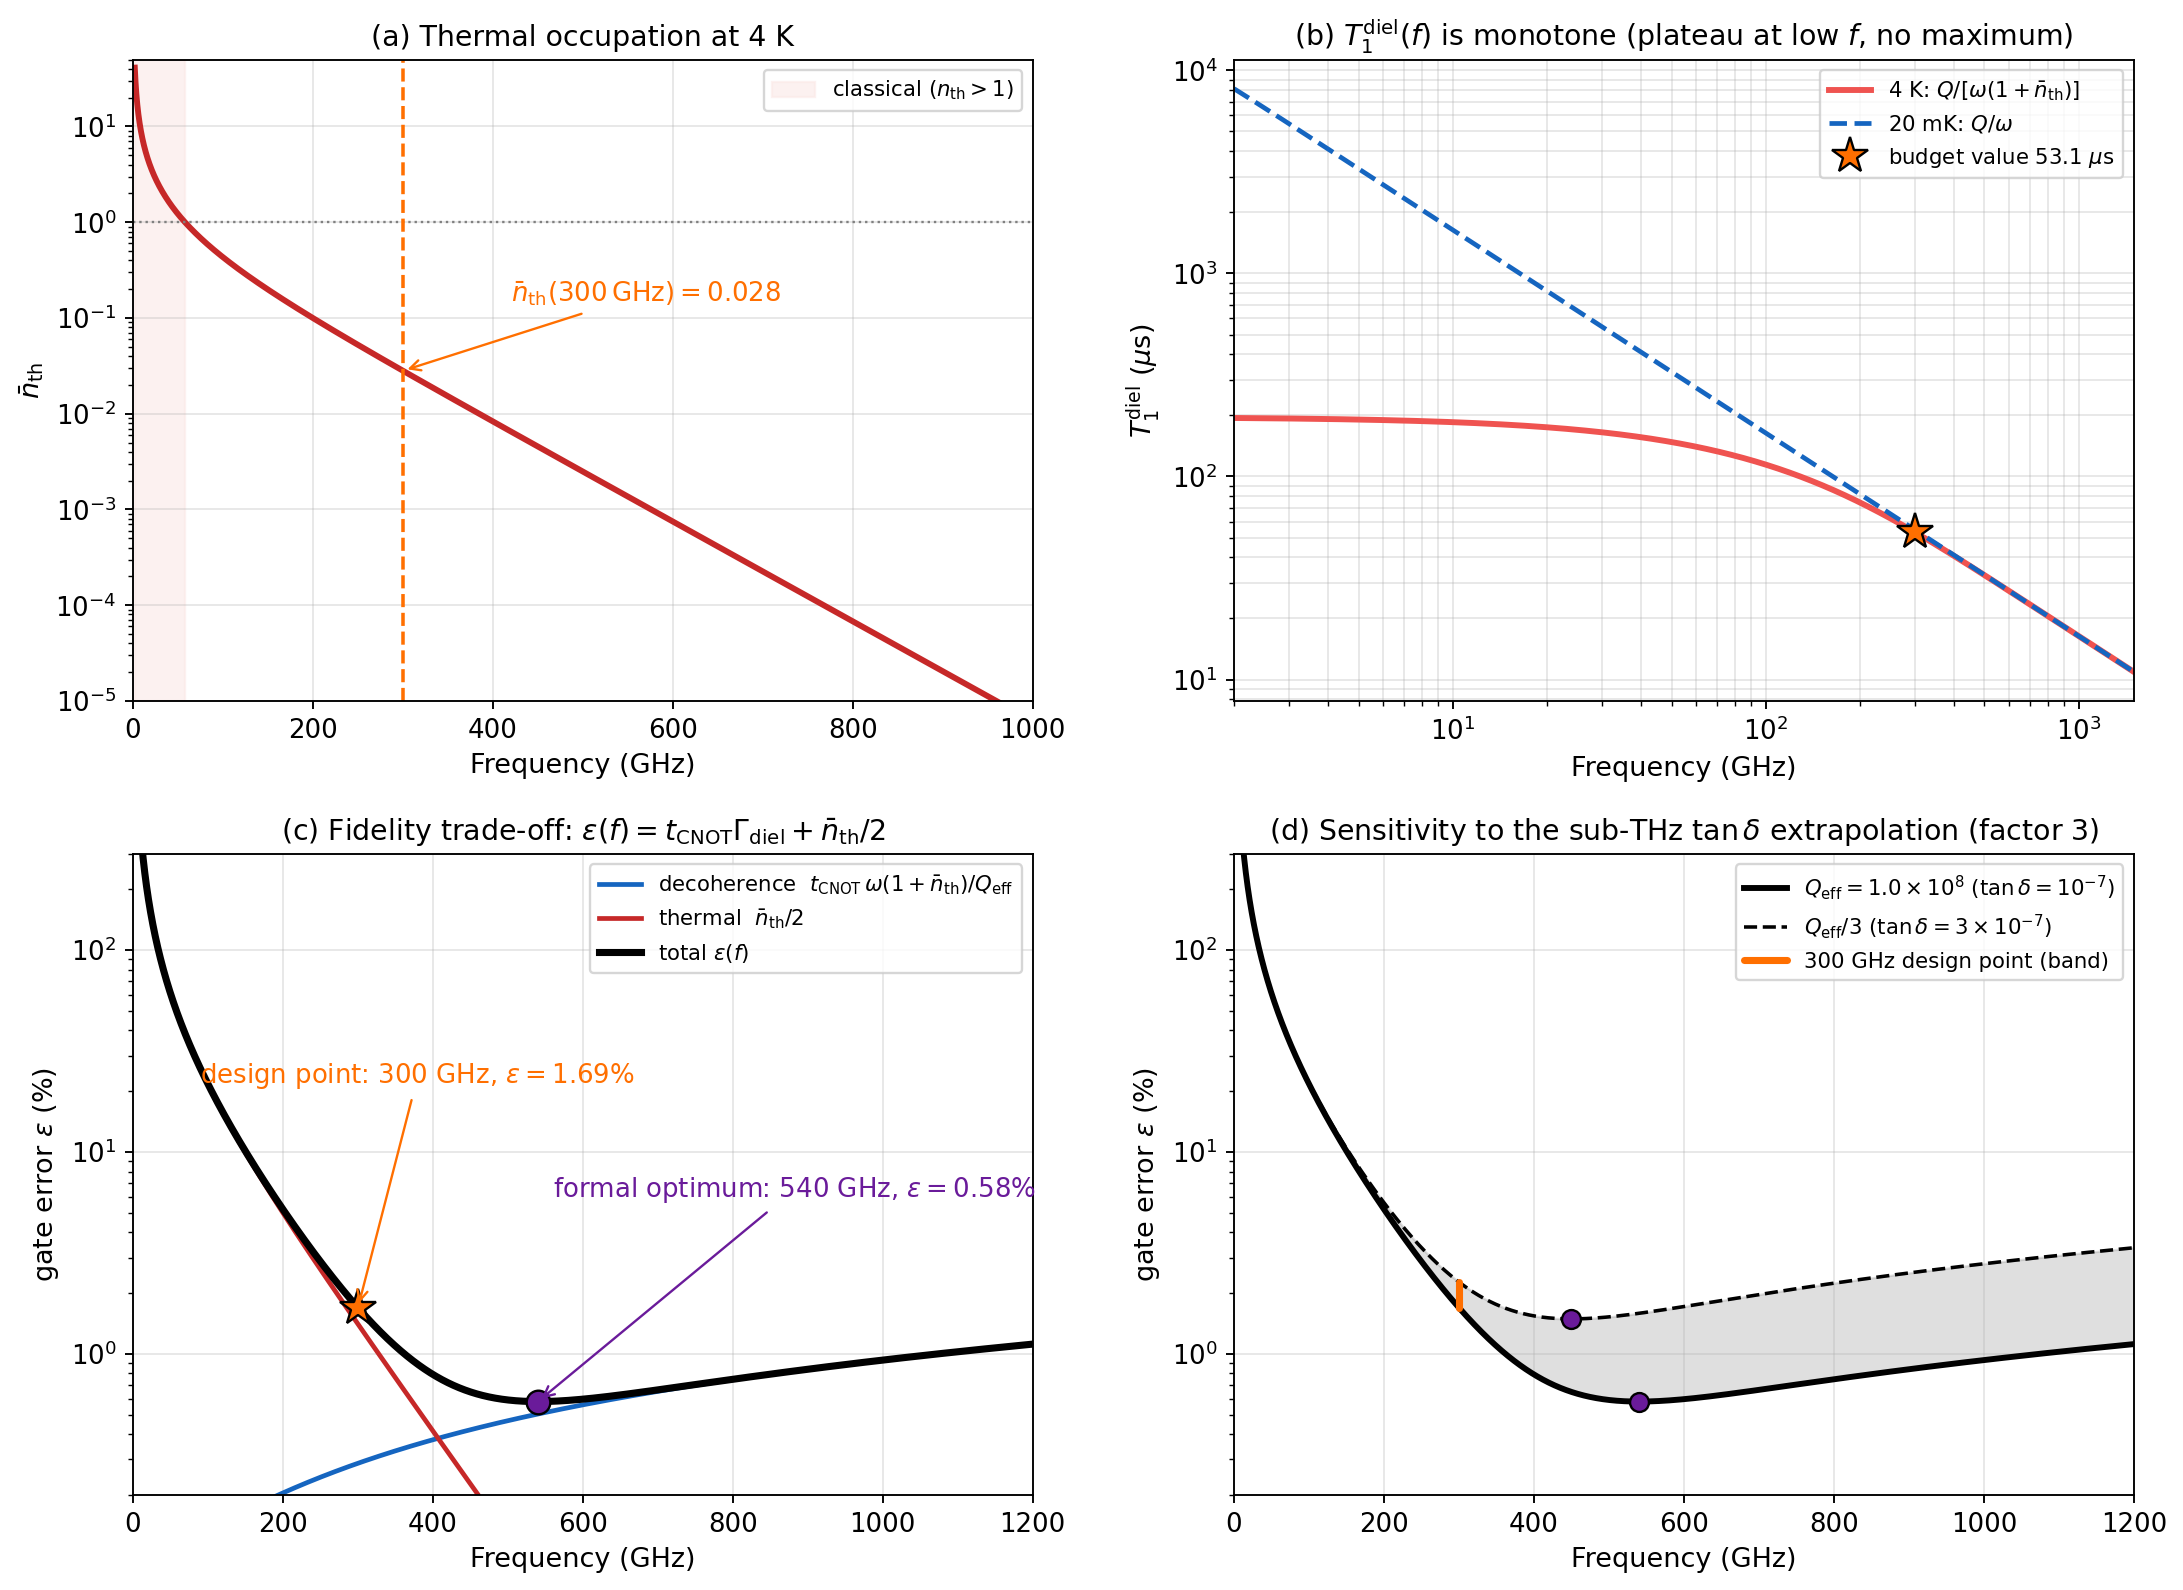
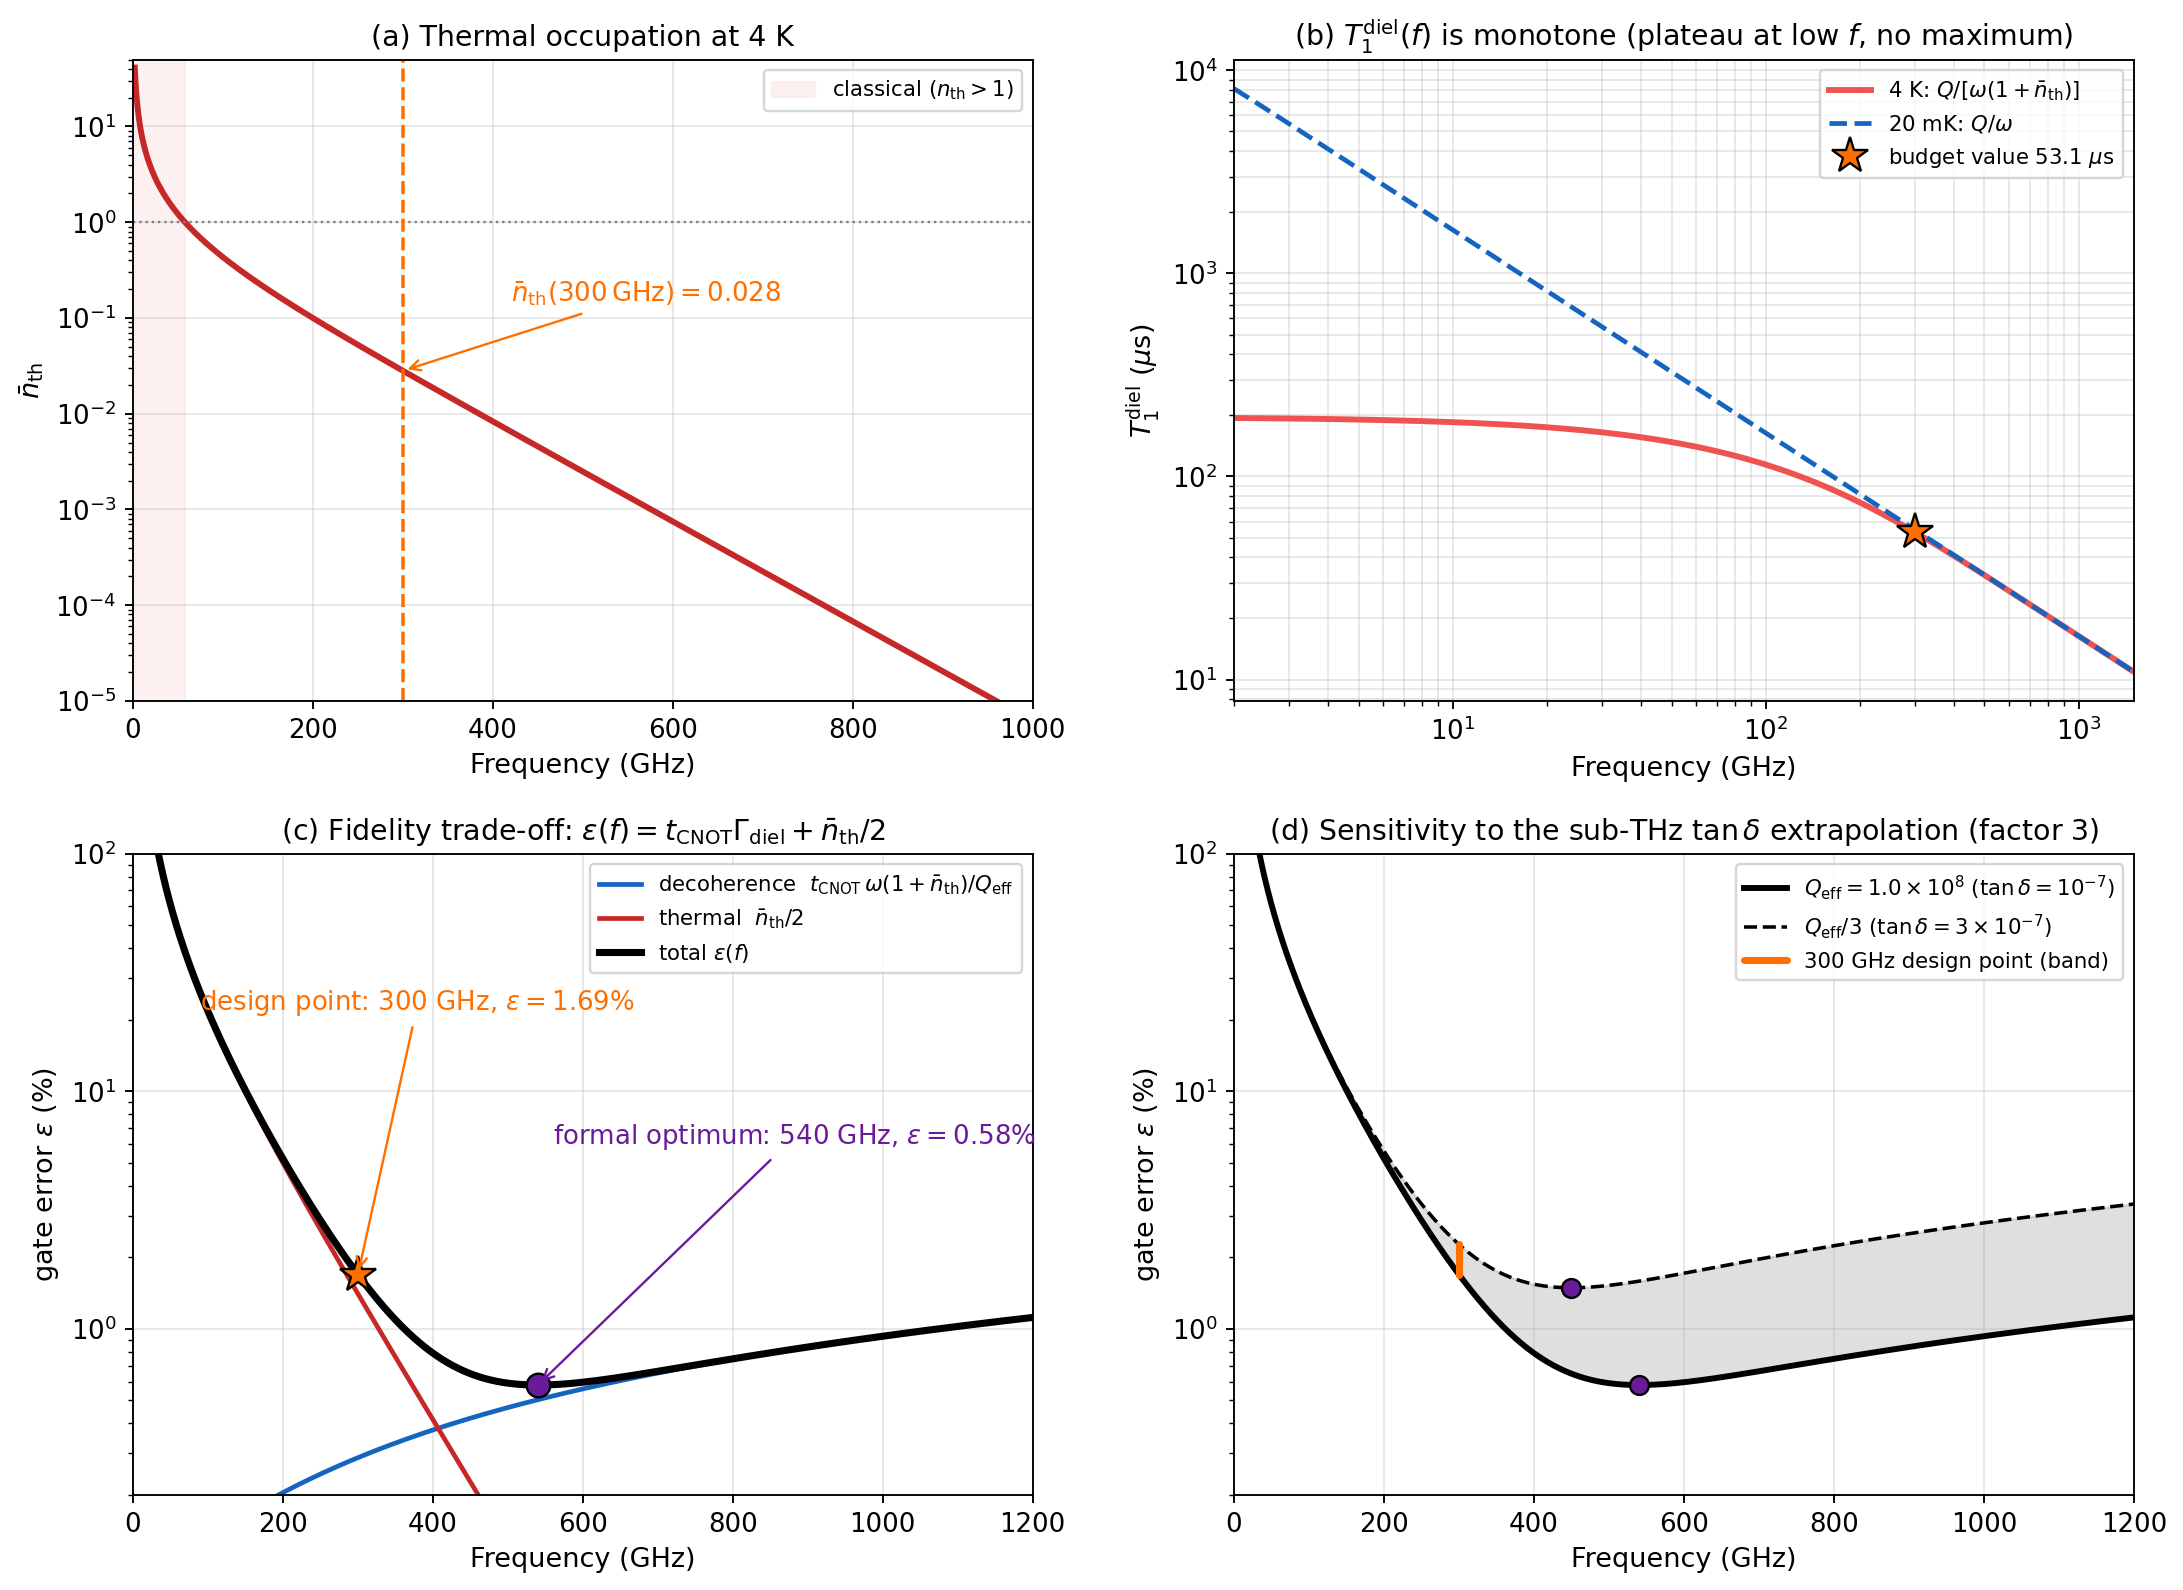
Fig 2.19(c,d): cap gate-error axes at 100% + validity note; Fig 2.20(b): label headroom
eps = t*Gamma + n/2 is a leading-order error estimate: below ~30 GHz
n_th > 1 (classical regime) and the formula exceeds 100%, which is not a
probability. Axes capped at 100% and caption states the epsilon << 1
validity condition. Fig 2.20(b): y-limit raised to 5000 us so the
'531 us' label of the Target bar no longer touches the axes box.

Claude-Session: https://claude.ai/code/session_01DD9m6UXVTKwPczyf4WWcwE

diff --git a/chapters/quantum_hw.tex b/chapters/quantum_hw.tex
@@ -3258,7 +3258,11 @@ factor-of-three $\tan\delta$ uncertainty band of
 Sec.~\ref{sec:dielectric_loss_300ghz}, the optimum moves between
 $\sim$\SI{450}{} and \SI{540}{\giga\hertz} and the design-point error spans
 $1.7$--$2.3\%$ (only the decoherence term scales with $\tan\delta$; the
-thermal term is unaffected).}
+thermal term is unaffected). The vertical axes of panels (c,d) are capped
+at 100\%: $\varepsilon$ is a leading-order error estimate, meaningful only
+for $\varepsilon \ll 1$, and its low-frequency growth signals the
+classical regime $\bar{n}_{\text{th}} \gtrsim 1$ of panel (a) rather than
+a literal error probability.}
 \label{fig:frequency_tradeoff}
 \end{figure}
 
